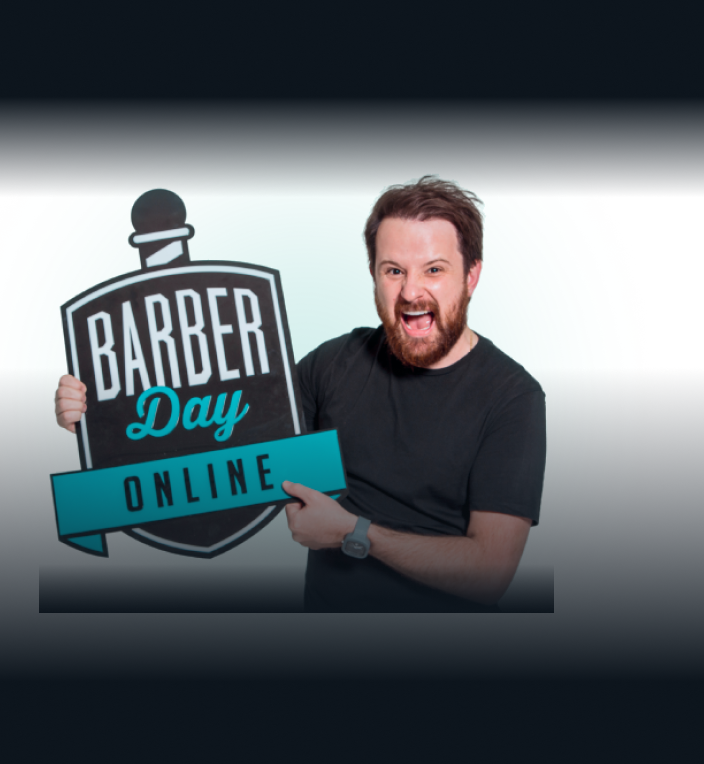
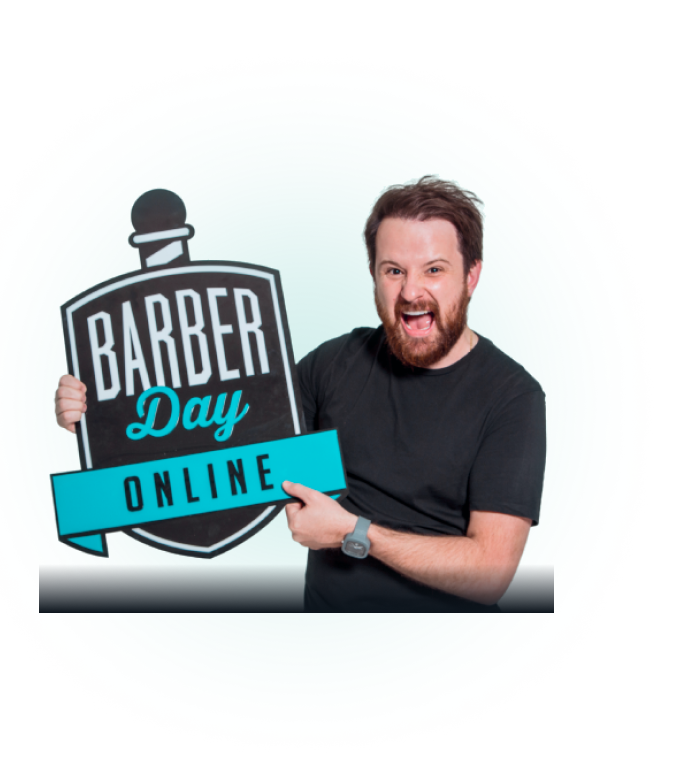
atualizando

diff --git a/Desafios/Desafio Arthur IV.1/estilos/media-query.css b/Desafios/Desafio Arthur IV.1/estilos/media-query.css
@@ -97,11 +97,14 @@
         grid-area: imagem;
     }
     .section1-foto {
-        background: url(../imagens/detalhes-foto1.png) no-repeat top 110px right 50px;
+        background: url(../imagens/detalhes-foto3.png) no-repeat right 50px bottom 50px;
         margin: 0px auto;
         max-width: 100%;
-    }.section1-foto img {
-        height: 100vh;
+    }
+    .section1-foto img {
+        height: 130vh;
         width: 100vw;
+        margin-top: -130px;
+        margin-left: 10px;
     }
 }
